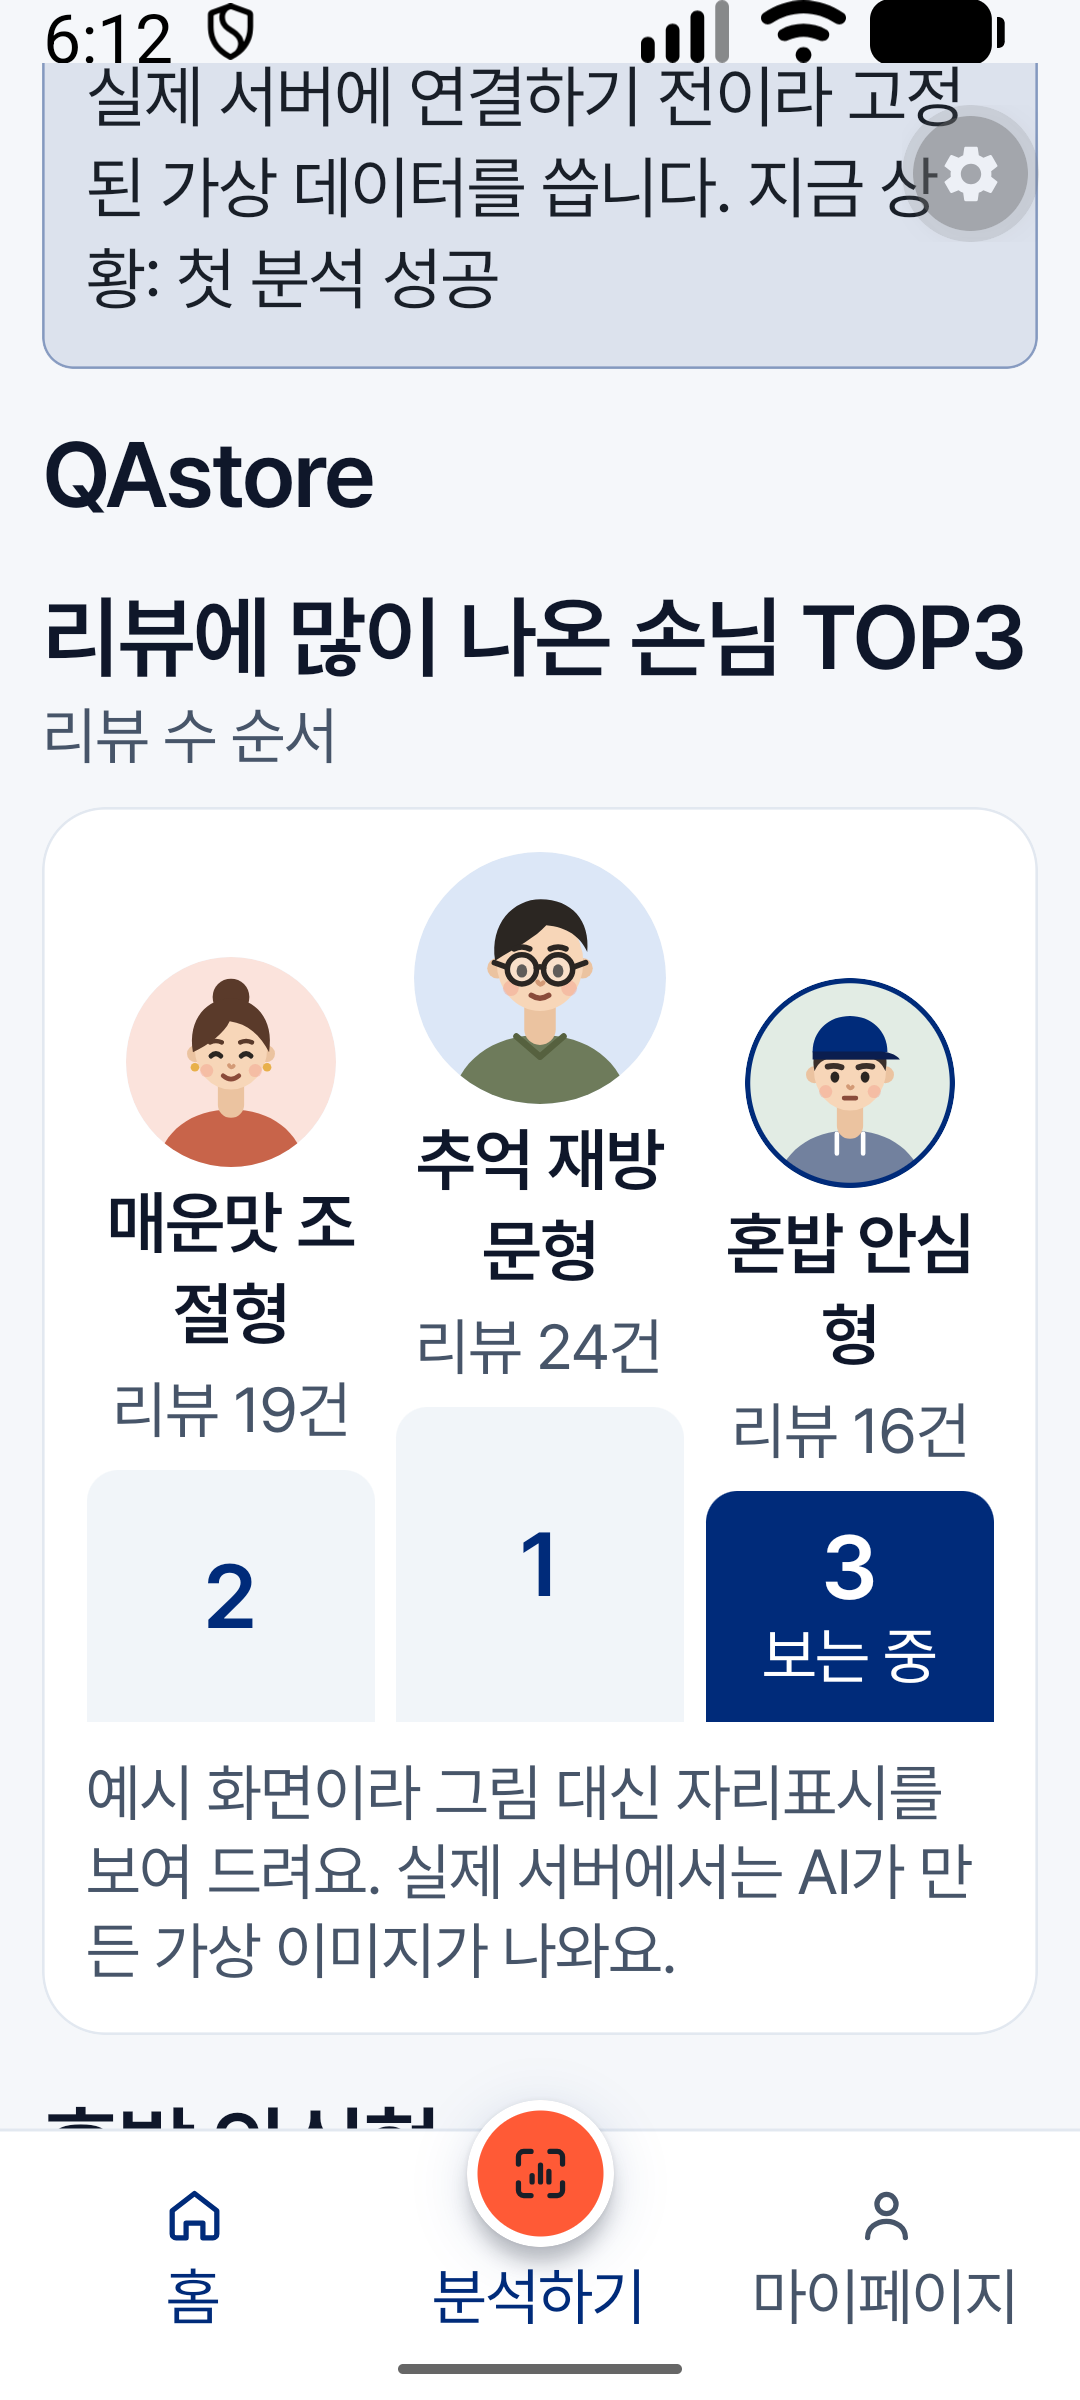
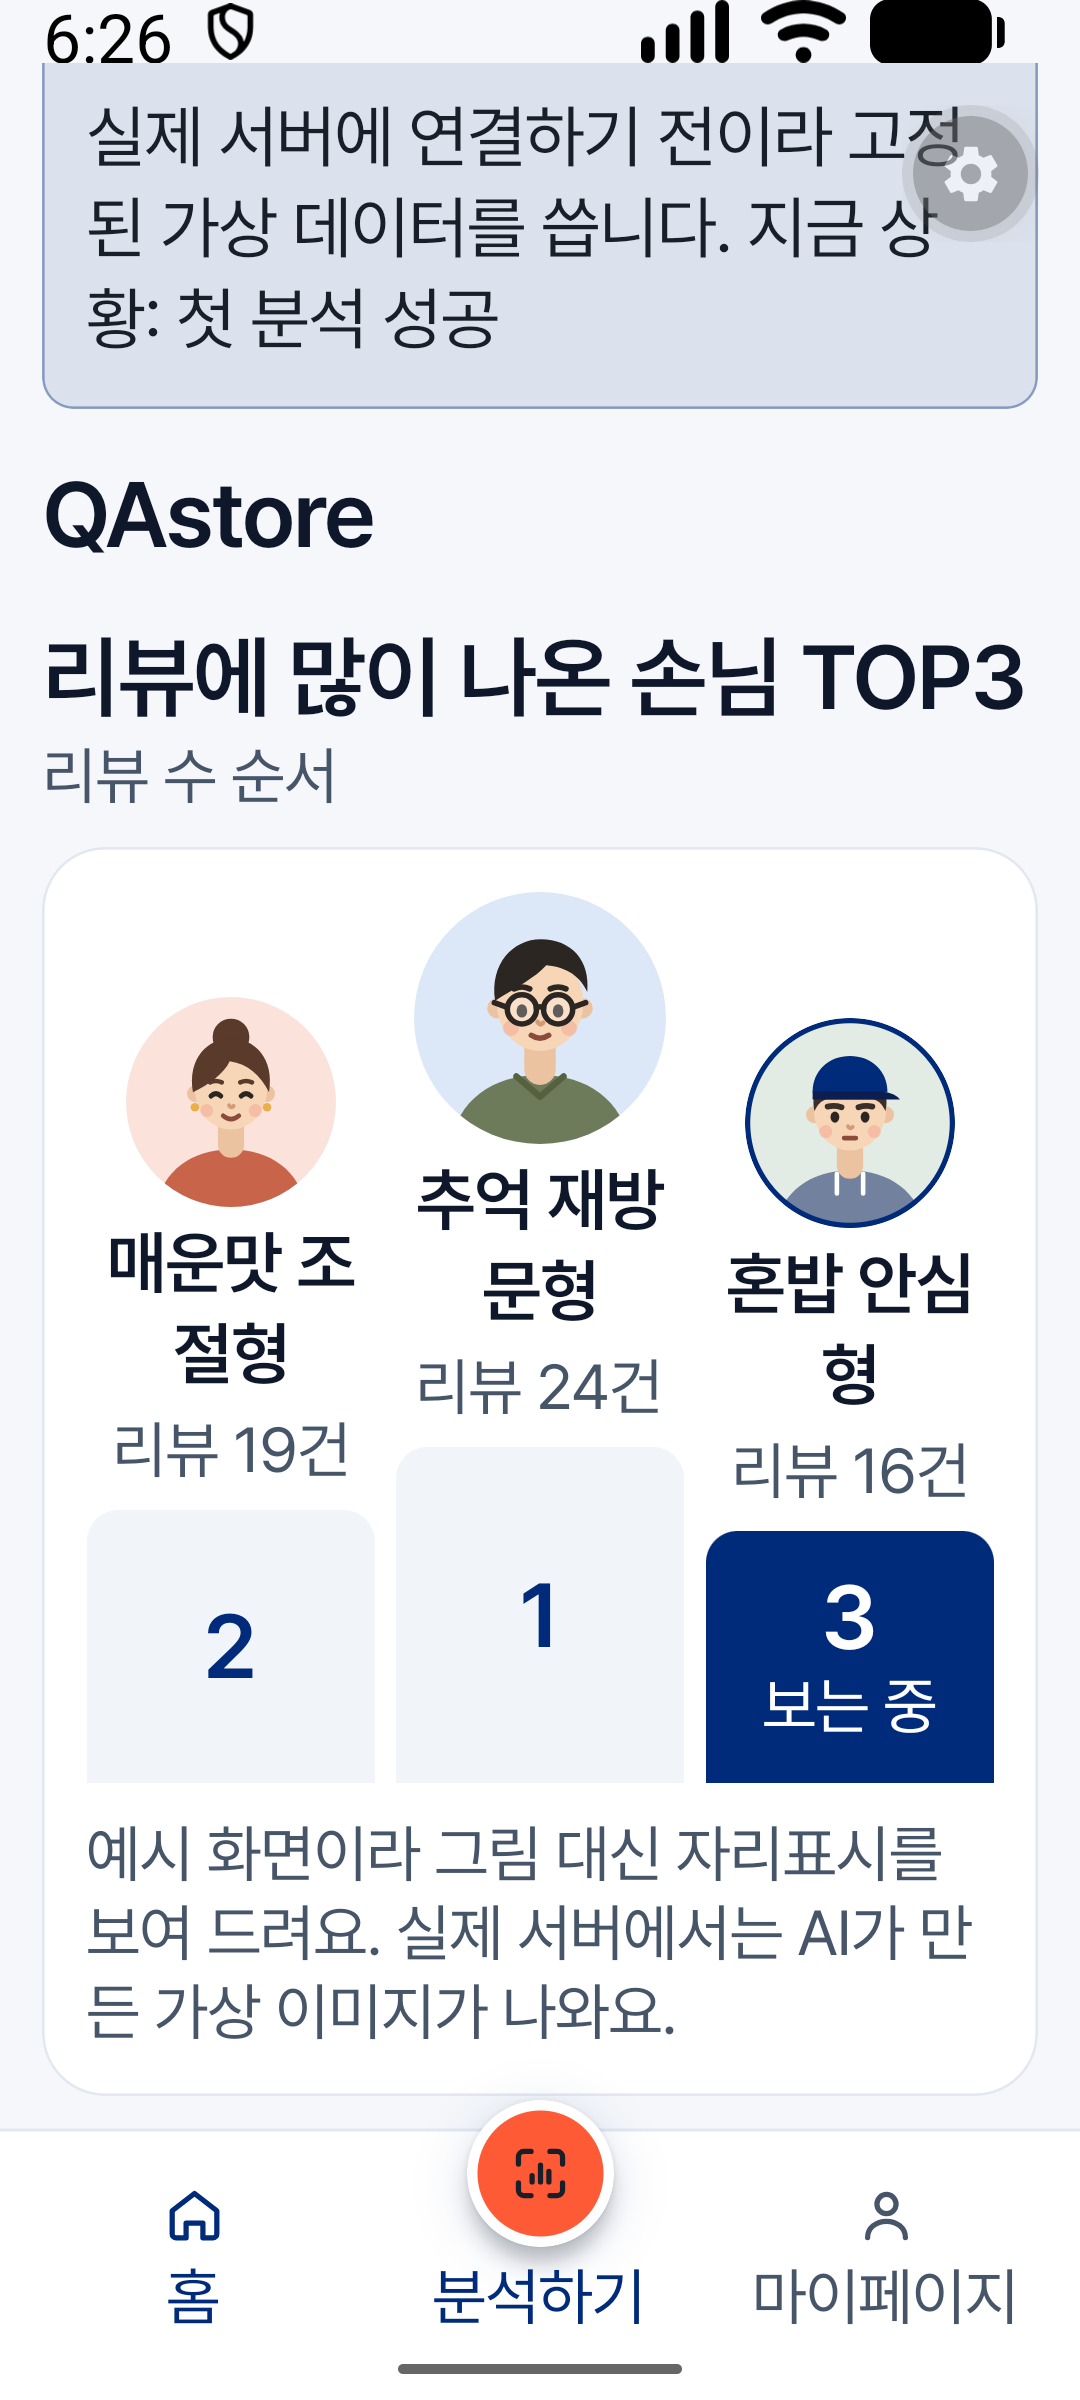
fix(mobile): 3위 단상 여유를 글자 배율에 비례하게 늘림 — 리뷰 반영
단상 안 두 줄 줄높이 합(46)이 배율대로 커져도 3위 단상(48 × 배율)에 들어가도록
더하는 값을 spacing[10]에서 spacing[12]로 바꿨다. 200% 캡처를 다시 찍고
evidence 서술(노드 높이의 대상, 접근성 이름의 출처)을 정정했다.

diff --git a/frontend/mobile/src/components/ui/PodiumTop3.tsx b/frontend/mobile/src/components/ui/PodiumTop3.tsx
@@ -22,9 +22,10 @@ const blockHeights: Record<number, number> = {
 /**
  * 단상 안에는 순위와 `보는 중`이 두 줄로 들어간다. 글자를 키우면 가장 낮은 3위 단상에서 글자가 잘린다
  * (글자 크기 200%, 2026-09-28). 세 단상에 같은 값을 더해 늘리므로 높이 차이와 순위 순서는 그대로다.
+ * 두 줄의 줄높이 합(head5 28 + caption 18 = 46)이 배율대로 커져도 3위 단상(48 × 배율)에 들어가도록 48씩 더한다.
  */
 function podiumBlockHeight(rank: number, fontScale: number) {
-  return blockHeights[rank] + spacing[10] * Math.max(0, fontScale - 1);
+  return blockHeights[rank] + spacing[12] * Math.max(0, fontScale - 1);
 }
 
 export function PodiumTop3({

diff --git a/docs/design/evidence/TASK-020/README.md b/docs/design/evidence/TASK-020/README.md
@@ -75,24 +75,25 @@ PR #38의 미확인 두 가지를 확인했다. 같은 AVD(`Medium_Phone`, Andro
 | `font200-00-home-top3-heading-before.png` | **고치기 전.** 제목 `리뷰에 많이 나온 손님 TOP3` 옆 `리뷰 수 순서`가 화면 오른쪽 밖으로 밀려남(`uiautomator` 너비 21px) |
 | `font200-01-signup.png` | 가입 화면 — 제목·입력 칸·안내 문장 줄바꿈, 잘림 없음 |
 | `font200-02-signup-confirm-empty.png` | 확인 칸을 비운 채 가입하기 — `비밀번호를 한 번 더 입력해 주세요.` 두 줄, 잘림 없음 |
-| `font200-03-signup-confirm-mismatch.png` | 다른 값을 넣고 가입하기 — `비밀번호가 서로 달라요.`, 칸 접근성 이름 `비밀번호 확인, 오류: 비밀번호가 서로 달라요.` |
+| `font200-03-signup-confirm-mismatch.png` | 다른 값을 넣고 가입하기 — `비밀번호가 서로 달라요.` 칸 접근성 이름은 `uiautomator` 기록으로 `비밀번호 확인, 오류: 비밀번호가 서로 달라요.`(캡처로는 보이지 않음) |
 | `font200-04-home-top3-heading.png` | **고친 뒤.** `리뷰 수 순서`가 제목 아래 줄로 내려와 모두 보임. 시상대는 단상 수정 전 캡처(1위 선택이라 잘림 없음) |
 | `font200-05-stats-card-rank1.png` | 1위 요약 카드 — `리뷰 24건`, 막대, `분석한 리뷰 67건 중 36%`, 칩 4개가 한 줄씩 쌓임 |
 | `font200-06-podium-rank3-selected.png` | **고친 뒤.** 3위를 누른 시상대 — 3위 단상 안 `3 / 보는 중`이 모두 보이고 단상 높이 순서 1 > 2 > 3 유지 |
 | `font200-07-stats-card-rank3.png` | 3위 요약 카드 — 모자 손님, `3위 손님`, `리뷰 16건`, `분석한 리뷰 67건 중 24%`(16÷67=23.9→24, 앱 계산값), 칩 8·13·6·6 |
 | `font200-08-stats-card-image-error.png` | 가상 서버 `이미지 조회 실패` — 카드 안 오류 문장 두 줄, 잘림 없음 |
 | `font200-09-mypage-images.png` | 마이페이지 저장 이미지 — 섹션 제목 두 줄, 1~3위 그림과 `N위 손님`·유형 이름, 잘림 없음 |
-| `font200-10-podium-rank3-selected-100.png` | 글자 크기 100%로 되돌린 뒤 3위 선택 — `리뷰 수 순서`는 제목과 같은 줄, 단상 높이는 전과 같음(회귀 없음) |
+| `font200-10-podium-rank3-selected-100.png` | 글자 크기 100%로 되돌린 뒤 3위 선택 — `리뷰 수 순서`는 제목과 같은 줄, 단상 높이는 전과 같음(회귀 없음). 아래 Expo 개발 경고 알림은 판정 대상과 무관 |
 
 ### 고친 결함 2건 (둘 다 PR #35부터 있던 것)
 
 1. **TOP3 제목 줄** — `ResultView.tsx`의 `sectionHead`가 가로 한 줄 고정이라 200%에서 옆 설명이 화면 밖으로 밀렸다. 자리가 모자라면 다음 줄로 내리도록(`flexWrap: 'wrap'`, 줄 간격 `spacing[1]`) 바꿨다.
-2. **3위 단상 글자 잘림** — `PodiumTop3.tsx`의 단상 높이가 고정값(1위 80·2위 56·3위 48)이라 200%에서 3위를 고르면 `보는 중` 아래가 잘렸다(고치기 전 `uiautomator` 높이 54px, 다른 단상은 79px). 고치기 전 캡처는 수정 뒤 같은 파일 이름으로 다시 찍으면서 덮어써 남지 않았다. 단상에만 최소 높이를 두면 3위가 2위보다 높아져 순위가 거꾸로 보이므로, 세 단상에 `spacing[10] × (fontScale − 1)`을 똑같이 더했다. 100%에서는 더하는 값이 0이다.
+2. **3위 단상 글자 잘림** — `PodiumTop3.tsx`의 단상 높이가 고정값(1위 80·2위 56·3위 48)이라 200%에서 3위를 고르면 `보는 중` 아래가 잘렸다(고치기 전 `uiautomator`의 `보는 중` 글자 노드 높이가 3위 54px, 1위를 골랐을 때 79px). 고치기 전 캡처는 수정 뒤 같은 파일 이름으로 다시 찍으면서 덮어써 남지 않았다. 단상에만 최소 높이를 두면 3위가 2위보다 높아져 순위가 거꾸로 보이므로, 세 단상에 `spacing[12] × (fontScale − 1)`을 똑같이 더했다. 100%에서는 더하는 값이 0이다.
+   - 처음에는 `spacing[10]`(40)을 더했다. 독립 리뷰가 "글자가 배율 그대로 커지는 기기에서는 모자란다"고 짚었다: 단상 안 두 줄의 줄높이 합은 head5 28 + caption 18 = 46이라 배율 s에서 46s인데, 3위 단상은 48 + 40(s − 1)이라 s > 1.33이면 부족하다. 이 에뮬레이터는 큰 글자를 덜 키워 40으로도 잘리지 않았다. 48을 더하면 3위 단상이 48s가 되어 46s보다 늘 크다. `font200-06`은 48로 바꾼 뒤 다시 찍은 것이다.
 
 - 첫 수정 반영 때 Fast Refresh가 편집 중간 상태(`useWindowDimensions` import 전)를 불러와 오류 화면이 떴다. `typecheck`는 통과했고, Expo Go를 완전히 다시 실행한 뒤 정상으로 떴다. 캡처는 모두 다시 실행한 뒤의 것이다(`font200-00` 제외).
 - 글자 배율을 바꾸면 Expo Go가 앱을 다시 시작해 로그인 화면으로 돌아간다. 100% 확인은 다시 로그인·분석한 뒤 했다.
 - 그 밖에 본 것(이번에 고치지 않음): 약관 두 칸을 모두 비운 채 가입하기를 누르면 **두 번째 칸만** 빨간 테두리다. `SignupScreen.tsx`가 오류를 둘째 `CheckRow`에만 넘긴다(PR #35부터 같음). 글자 크기와 무관하다.
-- 미확인: 글자 크기 200%에서의 실기기, TalkBack 실제 낭독, 원격 이미지의 로딩·다시 불러오기(가상 서버), 가입 화면 약관 변경 오류(가상 서버 임시 분기가 필요해 이번에는 재현하지 않음).
+- 미확인: 글자 크기 200%에서의 실기기(특히 글자가 배율 그대로 커지는 기기 — 3위 단상 여유는 위 계산으로만 확인), TalkBack 실제 낭독, 원격 이미지의 로딩·다시 불러오기(가상 서버), 가입 화면 약관 변경 오류(가상 서버 임시 분기가 필요해 이번에는 재현하지 않음).
 
 ## 마이페이지 저장 이미지 (2026-09-28)
 

diff --git a/docs/handoffs/active/TASK-020-frontend-state-model.md b/docs/handoffs/active/TASK-020-frontend-state-model.md
@@ -51,7 +51,7 @@
 
 ## Changed
 
-- (글자 크기 200% 확인, 2026-09-28) `features/result/ResultView.tsx`(`sectionHead` — 자리가 모자라면 `리뷰 수 순서`를 다음 줄로), `components/ui/PodiumTop3.tsx`(`podiumBlockHeight` — 세 단상에 `spacing[10] × (fontScale − 1)`을 똑같이 더해 3위 단상의 `보는 중` 잘림을 막음, 100%에서는 그대로). 둘 다 PR #35부터 있던 결함. evidence `font200-*` 11장
+- (글자 크기 200% 확인, 2026-09-28) `features/result/ResultView.tsx`(`sectionHead` — 자리가 모자라면 `리뷰 수 순서`를 다음 줄로), `components/ui/PodiumTop3.tsx`(`podiumBlockHeight` — 세 단상에 `spacing[12] × (fontScale − 1)`을 똑같이 더해(두 줄 줄높이 합 46 × 배율보다 3위 단상 48 × 배율이 늘 큼) 3위 단상의 `보는 중` 잘림을 막음, 100%에서는 그대로). 둘 다 PR #35부터 있던 결함. evidence `font200-*` 11장
 - (마이페이지 저장 이미지, 2026-09-28) `features/mypage/MyPageScreen.tsx`(`StoredPersonaRow` — 동그란 그림 + 순위·유형 이름, 순위 순 정렬), `components/ui/PersonaAvatar.tsx`(`usePersonaImageRetry`·`PersonaImageError` — 홈 카드와 공유), `features/result/ResultView.tsx`(공유 도구로 교체), `components/ui/PersonaImageBlock.tsx` 삭제, 보드 `generate.mjs`·`svg/10`(MyPage-Images 화면 추가), `SCREEN_STATES` §8 `STORED-IMAGES-NORMAL`, `DESIGN_SYSTEM` §3.6, evidence `mypage-images-*` 2장. 독립 Reviewer PASS(차단 0·P3 3 — 주석, Unresolved 16 서술, 생성기의 안 쓰는 줄 → 반영)
 
 - (선택 유형 요약 카드, 2026-09-28) 결과 화면의 큰 이미지 칸을 사용자가 고른 F안 카드로 바꿨다 — 손님 그림·순위·리뷰 수·분석 리뷰 대비 비율 막대·관점별 근거 수 칩. `features/result/ResultView.tsx`(`PersonaStatsCard`, 이미지 실패 시 다시 불러오기), `components/ui/PersonaAvatar.tsx`(`compact` 크기, `onLoadError`), 보드 `generate.mjs`·`svg/08`(Image-States 화면), `SCREEN_STATES` §6.1·§6.4·§11, `DESIGN_SYSTEM` §3.6·§6 SC-007, `RESULT_IA` 구조도·트리, evidence `stats-card-*` 3장. 독립 Reviewer 1차 FAIL(P1 — 카드 묶음 라벨이 서버 대체 텍스트를 가림, P2 1·P3 5) → 반영 후 2차 PASS(P3 3 — 주석 위치 반영, altText 형식·가상 서버 대체 텍스트가 음식을 설명하는 차이는 실제 서버 연결 때 확인)
